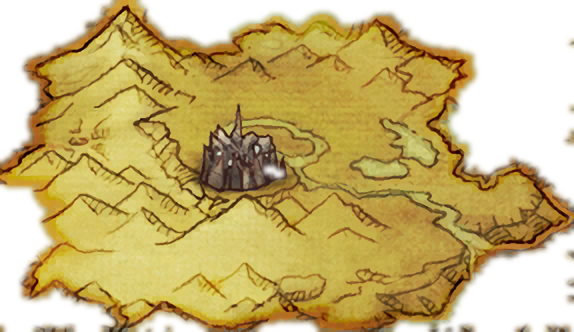
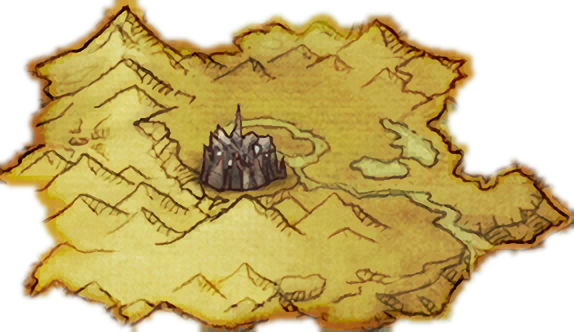
Pulse+ map: zone highlights cut to the zone's yellow shape (no neighbour pieces), the map tab on the same edges as Чат and Расписание, world maps clear of the breadcrumb; «Древний город Ру» moved to the upper Abyss layer (it showed in the Eye)

diff --git a/launcher/src/ui/map/WorldLayer.tsx b/launcher/src/ui/map/WorldLayer.tsx
@@ -25,6 +25,7 @@ const atrea = JSON.parse(atreaJson) as {
 };
 const ABYSS_NAMES = atrea.zone_names; // the Abyss layers named as on the site
 const BG = "site/bg.png";
+const TOP = 56; // the breadcrumb's band at the top of the map
 
 /** The region a zone belongs to on the world map (null: a zone the world map has no place for, e.g. a temple). */
 export function regionOf(mapId: string): string | null {
@@ -104,7 +105,7 @@ function Globe({ size, onRegion }: { size: { w: number; h: number }; onRegion(re
     const p = new DOMPoint(e.clientX, e.clientY).matrixTransform(m.inverse());
     return opaque(masks[`site/${rims.file}`], (p.x - rims.x) / rims.width, (p.y - rims.y) / rims.height);
   };
-  const scale = Math.min((size.w - 40) / vw, (size.h - 40) / vh);
+  const scale = Math.min((size.w - 40) / vw, (size.h - TOP - 10) / vh);
   return (
     <svg ref={svg} className={`world-svg${hover ? " pointing" : ""}`} viewBox={`${vx} ${vy} ${vw} ${vh}`}
       width={vw * scale} height={vh * scale} role="group" aria-label="Атрея"
@@ -134,8 +135,9 @@ function Globe({ size, onRegion }: { size: { w: number; h: number }; onRegion(re
 function RegionMap({ size, region, onZone }: { size: { w: number; h: number }; region: string; onZone(zone: WorldZone): void }) {
   const r = world.regions[region];
   const [rw, rh] = r.size;
-  const k = Math.min((size.w - 40) / rw, (size.h - 40) / rh, 2); // at most the pictures' own size (2x)
-  const left = (size.w - rw * k) / 2, top = (size.h - rh * k) / 2;
+  // under the breadcrumb (TOP), 20 px from the other edges; at most the pictures' own size (2x)
+  const k = Math.min((size.w - 40) / rw, (size.h - TOP - 20) / rh, 2);
+  const left = (size.w - rw * k) / 2, top = TOP + (size.h - TOP - 20 - rh * k) / 2;
   const files = useMemo(() => [r.image, ...r.zones.map((z) => z.highlight_file).filter(Boolean)], [r]);
   const urls = usePictures(files);
   const masks = useMasks(urls, r.zones.map((z) => z.highlight_file).filter(Boolean));

diff --git a/launcher/src/ui/map/map.css b/launcher/src/ui/map/map.css
@@ -1,5 +1,6 @@
 /* The «Карта» tab (MapTab.tsx): the bar, the map and the right panel, as the concept docs/concepts/map/pulse-plus-map-concept.webp. */
-.map-page { flex: 1; min-height: 0; display: flex; flex-direction: column; gap: 12px; padding: 0 20px 18px; }
+/* the same edges as «Чат» and «Расписание»: the header's sides, 12 px under the tabs, 14 px between cards */
+.map-page { flex: 1; min-height: 0; display: flex; flex-direction: column; gap: 10px; padding: 12px 0 0; }
 
 /* the bar: zone, search, filters */
 .map-bar { display: flex; align-items: center; gap: 10px; }
@@ -144,7 +145,7 @@
 .map-home { display: inline-flex; align-items: center; gap: 6px; flex: none; padding: 0 12px 0 8px; }
 
 /* the globe and the night sky of aion-map.vercel.app (data/maps/world/site) */
-.world-layer { position: absolute; inset: 0; display: grid; place-items: center; background: #15121f center / cover no-repeat; }
+.world-layer { position: absolute; inset: 0; display: grid; place-items: end center; padding-bottom: 10px; background: #15121f center / cover no-repeat; }
 .world-layer > .world-region { inset: 0; }
 .world-svg { display: block; overflow: visible; }
 .world-svg.pointing { cursor: pointer; }

diff --git a/tools/build_world_map.py b/tools/build_world_map.py
@@ -8,7 +8,7 @@ The globe is the game's mini globe (Asmodae and Elysea lands, the Abyss and the 
 Asmodae, Elysea and Balaurea use the game's coloured region maps (768x608, worldmap_dark/light/dragon). Their zone
 highlights have no layout in the client: each highlight is found on its map by normalised cross-correlation, named by
 the zone whose place in the newer 590 px layout (new_map_dialog) fits best, and cut to the zone's shape (the pixels the
-highlight changes); the newer layout's buttons and name places are carried over by the same fit. The Abyss keeps its
+highlight turns yellow, its largest piece); the newer layout's buttons and name places are carried over by the same fit. The Abyss keeps its
 590 px map and layout. The pictures are enlarged with the portable Waifu2x (downloads/icon_upscale, as
 tools/upscale_icons.py); without it with Lanczos.
 
@@ -195,13 +195,64 @@ def old_region(region: str, zones: list[dict]) -> tuple[Image.Image, dict[str, t
     lights = {}
     for (crop, box), index in zip(found, chosen):
         x, y, cw, ch = box
-        diff = np.abs(crop[:, :, :3] - base[y:y + ch, x:x + cw]).sum(2)
-        mask = Image.fromarray(((diff > 45) * 255).astype(np.uint8))
-        mask = mask.filter(ImageFilter.MaxFilter(5)).filter(ImageFilter.MinFilter(3)).filter(ImageFilter.GaussianBlur(1.2))
         piece = Image.fromarray(crop.astype(np.uint8), "RGBA")
-        piece.putalpha(mask)
+        piece.putalpha(zone_shape(crop[:, :, :3], base[y:y + ch, x:x + cw]))
         lights[targets[index]["code"]] = (piece, box)
     return Image.fromarray(base.astype(np.uint8), "RGB"), lights, params
+
+
+def largest(mask: np.ndarray) -> np.ndarray:
+    """The largest 4-connected piece of a mask."""
+    h, w = mask.shape
+    seen = np.zeros_like(mask)
+    best: list[tuple[int, int]] = []
+    for y in range(h):
+        for x in np.where(mask[y] & ~seen[y])[0]:
+            if seen[y, x]:
+                continue
+            stack, piece = [(y, x)], []
+            seen[y, x] = True
+            while stack:
+                cy, cx = stack.pop()
+                piece.append((cy, cx))
+                for ny, nx in ((cy + 1, cx), (cy - 1, cx), (cy, cx + 1), (cy, cx - 1)):
+                    if 0 <= ny < h and 0 <= nx < w and mask[ny, nx] and not seen[ny, nx]:
+                        seen[ny, nx] = True
+                        stack.append((ny, nx))
+            if len(piece) > len(best):
+                best = piece
+    out = np.zeros_like(mask)
+    if best:
+        ys, xs = zip(*best)
+        out[list(ys), list(xs)] = True
+    return out
+
+
+def fill_holes(mask: np.ndarray) -> np.ndarray:
+    """The mask with its holes filled (what the outside cannot reach)."""
+    h, w = mask.shape
+    outside = np.zeros_like(mask)
+    stack = [(y, x) for y in range(h) for x in (0, w - 1) if not mask[y, x]]
+    stack += [(y, x) for x in range(w) for y in (0, h - 1) if not mask[y, x]]
+    for y, x in stack:
+        outside[y, x] = True
+    while stack:
+        cy, cx = stack.pop()
+        for ny, nx in ((cy + 1, cx), (cy - 1, cx), (cy, cx + 1), (cy, cx - 1)):
+            if 0 <= ny < h and 0 <= nx < w and not mask[ny, nx] and not outside[ny, nx]:
+                outside[ny, nx] = True
+                stack.append((ny, nx))
+    return ~outside
+
+
+def zone_shape(crop: np.ndarray, base: np.ndarray) -> Image.Image:
+    """The zone of a highlight: the pixels it turns yellow (not what merely differs), its largest piece without holes,
+    with soft edges. The highlight crops also hold bits of the neighbours, which must not light up."""
+    yellow = lambda a: (a[..., 0] + a[..., 1]) / 2 - a[..., 2]
+    lit = (np.abs(crop - base).sum(2) > 40) & (yellow(crop) - yellow(base) > 18)
+    lit = np.array(Image.fromarray((lit * 255).astype(np.uint8)).filter(ImageFilter.MaxFilter(5)).filter(ImageFilter.MinFilter(5))) > 127
+    shape = fill_holes(largest(lit))
+    return Image.fromarray((shape * 255).astype(np.uint8)).filter(ImageFilter.GaussianBlur(1.2))
 
 
 def zone_maps() -> dict[str, str]:
